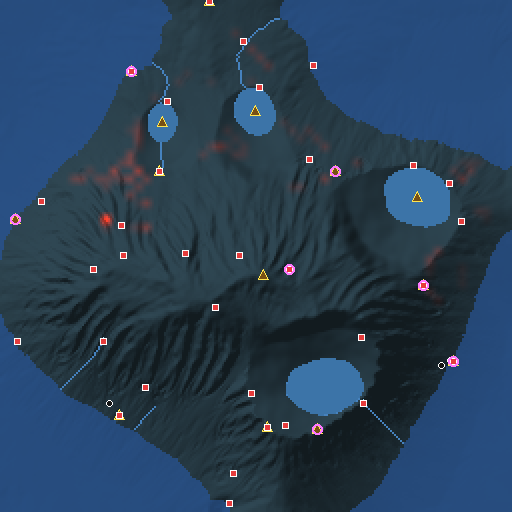
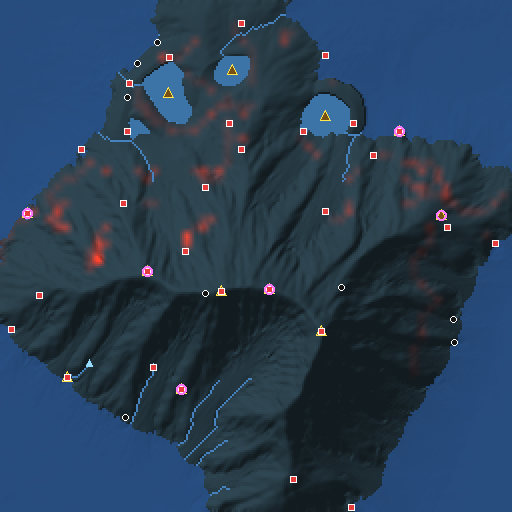
Prefer karst springs in soluble rock; refresh README images with before/after terrain
Claude-Session: https://claude.ai/code/session_01N4thvkQRHYqCzV9FLqSsD4

diff --git a/ofm/volume/caves.py b/ofm/volume/caves.py
@@ -240,6 +240,9 @@ def simulate_caves(world) -> list[CaveSystem]:
     out_j, out_i = np.nonzero(outlet_ok)
     out_x, out_y = (out_i + 0.5) * cell, (out_j + 0.5) * cell
     out_h = h[out_j, out_i]
+    # Karst springs rise where the soluble rock meets the valley side (often at its contact
+    # with impermeable rock below), so outlets in soluble rock are strongly preferred.
+    out_sol = np.maximum(surf_sol[out_j, out_i], world.strata.solubility(h - 8.0)[out_j, out_i])
 
     systems: list[CaveSystem] = []
     used: list[tuple[float, float]] = []
@@ -257,7 +260,8 @@ def simulate_caves(world) -> list[CaveSystem]:
         ok = (d > 250.0) & (d < cc.search_radius) & (drop > 25.0)
         if not ok.any():
             continue
-        cost = np.where(ok, d / 600.0 - drop / 120.0 + rng.uniform(0, 0.6, d.shape), np.inf)
+        cost = np.where(ok, d / 600.0 - drop / 120.0 + 1.5 * (1.0 - out_sol) + rng.uniform(0, 0.6, d.shape),
+                        np.inf)
         k = int(np.argmin(cost))
         tx, ty = float(out_x[k]), float(out_y[k])
         tz = float(t.h(tx, ty)) - cc.tunnel_radius * 0.25

diff --git a/README.md b/README.md
@@ -24,8 +24,10 @@ OFM은 물리 시뮬레이션과 환경심리학 시뮬레이션으로 오픈월
 
 Python 3.11 이상이 필요하고, 의존성은 `numpy`, `Pillow` 두 개뿐입니다. 기본 프리셋(4.1 km × 4.1 km)은 AI 개선 3회를 포함해 약 1분 40초에 생성됩니다.
 
-| 지형·바이옴·POI | 동굴 단면(지층을 따라 진행하는 카르스트 통로) |
+| 하천 지형 진화 전(같은 시드) | 하천 지형 진화 + 프랙탈 해안 후 |
 |---|---|
+| ![before](docs/images/terrain_before.png) | ![after](docs/images/terrain_after.png) |
+| **지형·바이옴·POI** | **동굴 단면(석회암층을 따라 진행하는 카르스트 통로)** |
 | ![biome](docs/images/preview_biome.png) | ![cave](docs/images/cave_profile.png) |
 | **해식주(파식 노치 포함)** | **탐험 에이전트가 지루해한 경로** |
 | ![stack](docs/images/view_sea_stack.png) | ![boredom](docs/images/preview_boredom.png) |
